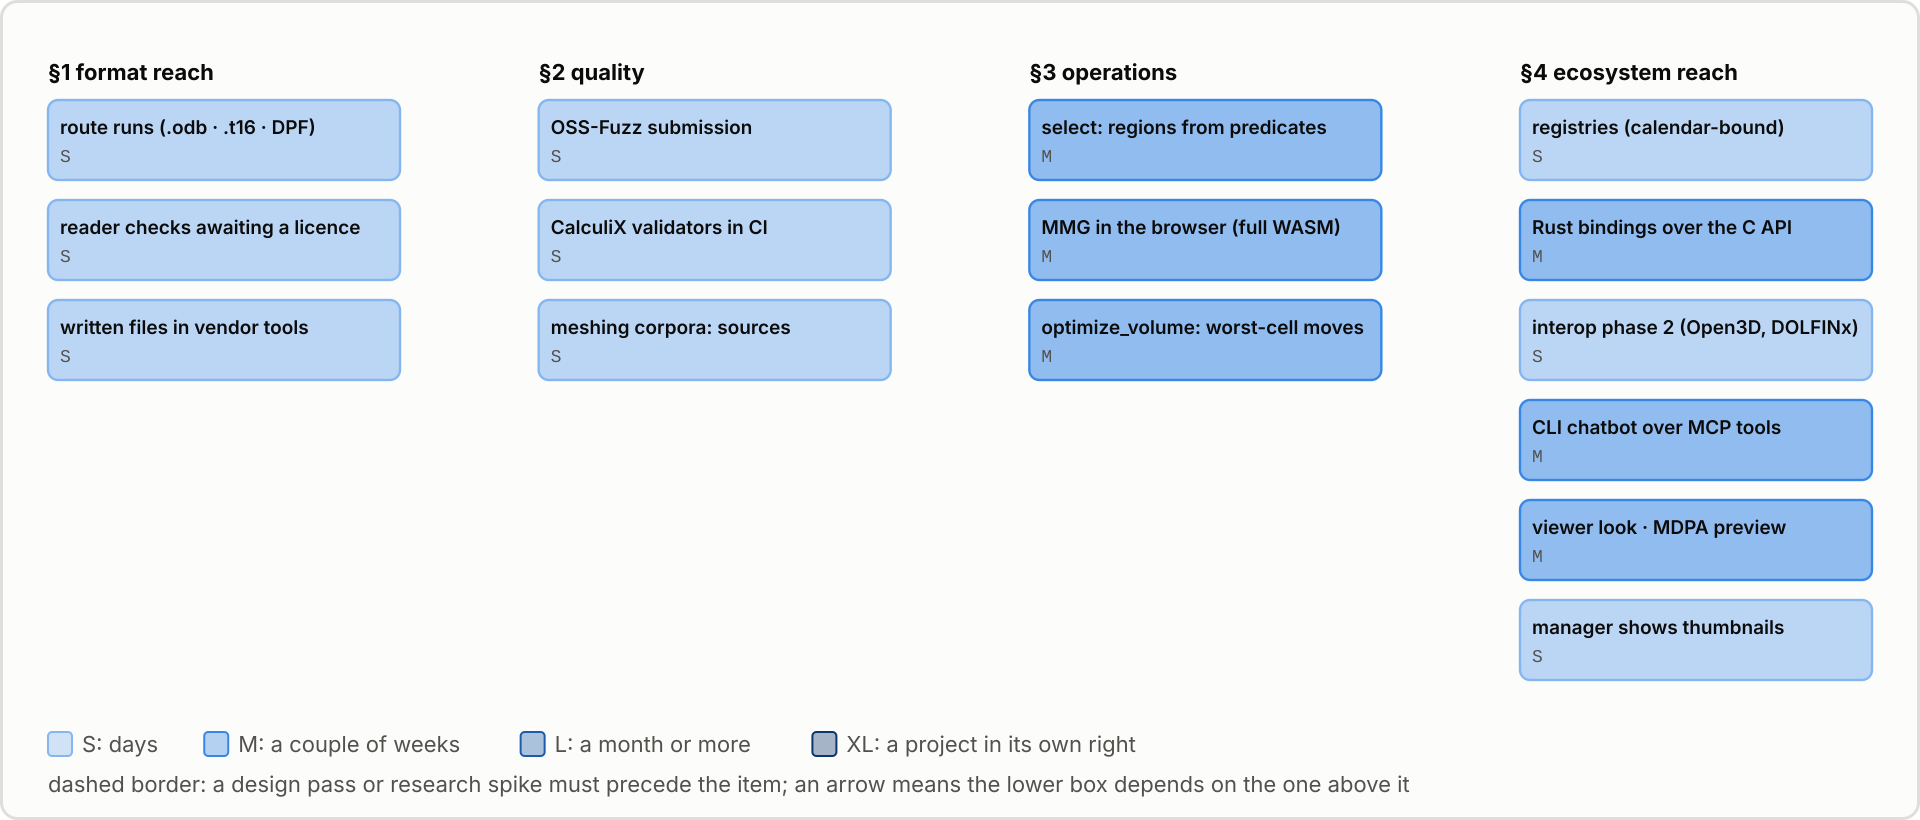
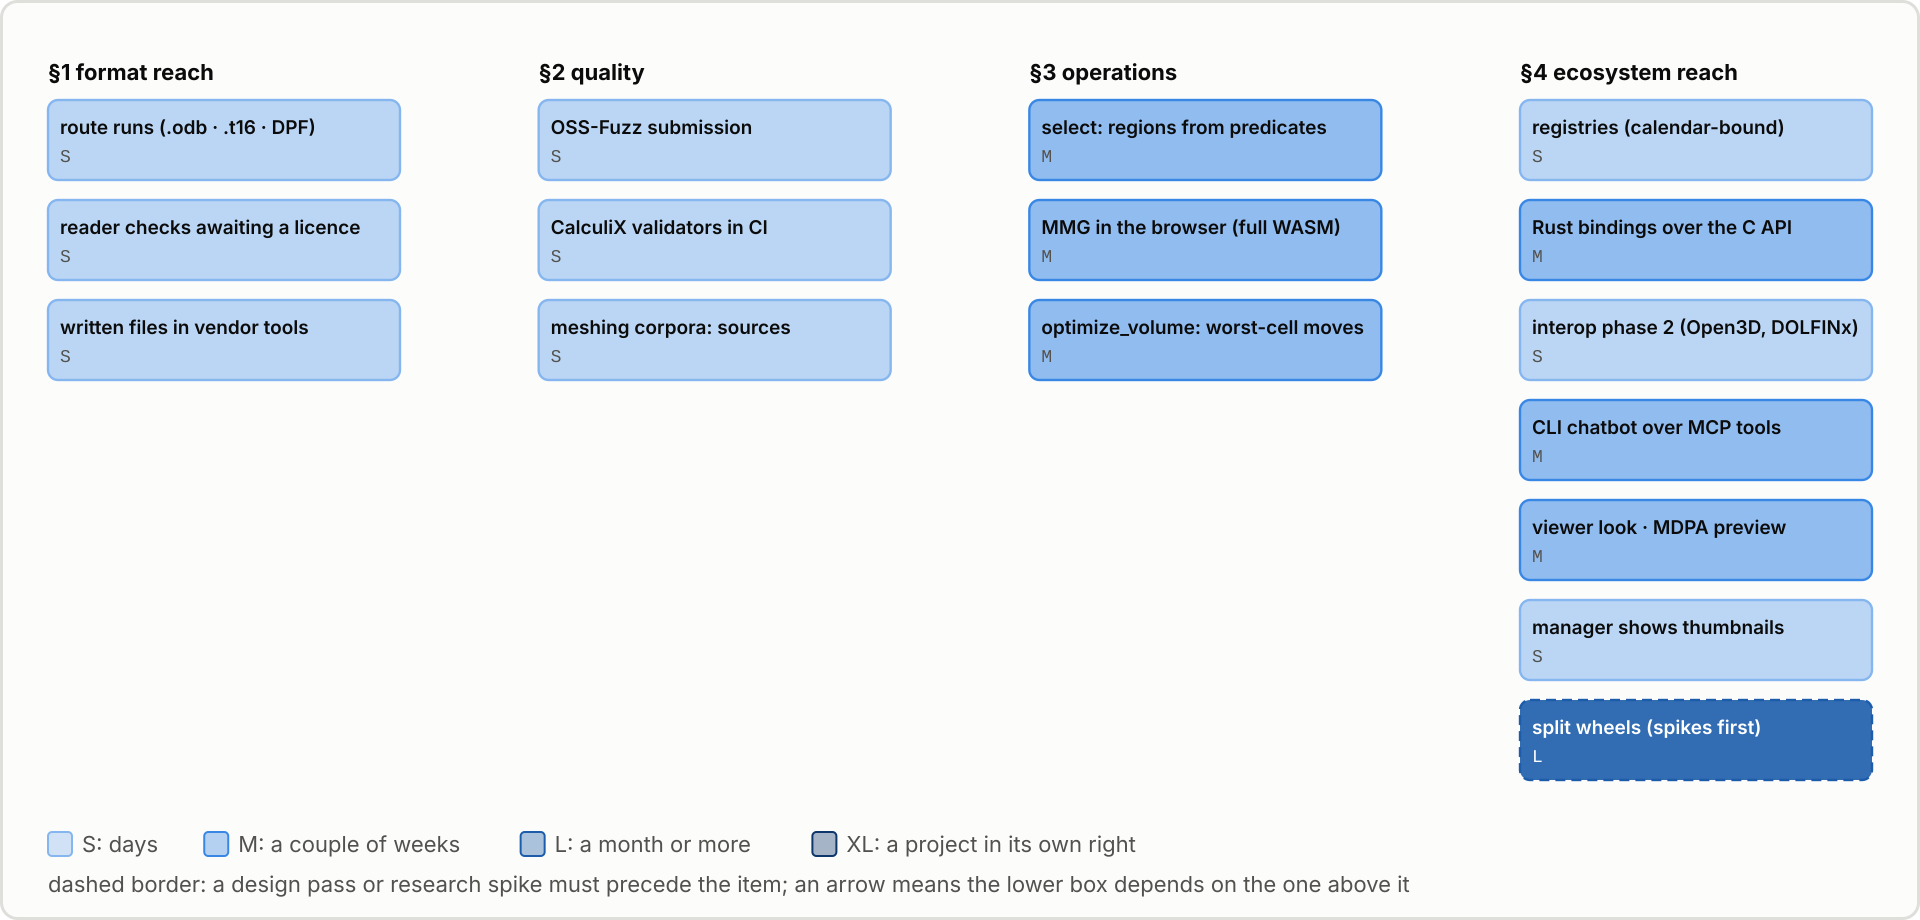
Plan the split Python packages: an MIT base wheel and add-on wheels (roadmap 4.7)
doc/python_packages_plan.md designs a Kratos-style distribution: the base
wheel ships the core as a shared library (the existing install-cpp
variant), and meshioplusplus-occt, -netgen and -mmg ship small extensions
linked against it, pinned to its exact version, each bundling its LGPL
library as a shared object; [all] installs everything. It needs a runtime
provider registry in the core first, and records the phases, the spikes
before code, the risks and what stays the same. Roadmap 4.7 and its map
point at it.

Claude-Session: https://claude.ai/code/session_01DnyVZDzhy71iTtjJbzZgnU

diff --git a/doc/diagrams/figures/flows.py b/doc/diagrams/figures/flows.py
@@ -1048,6 +1048,7 @@ def roadmap_map():
                 ("CLI chatbot over MCP tools", "M"),
                 ("viewer look · MDPA preview", "M"),
                 ("manager shows thumbnails", "S"),
+                ("split wheels (spikes first)", "L"),
             ],
             [],
         ),

diff --git a/doc/python_packages_plan.md b/doc/python_packages_plan.md
@@ -1,0 +1,141 @@
+# Split Python packages: plan
+
+The design pass for roadmap 4.7: one MIT base wheel, `meshioplusplus`, and add-on wheels that carry the copyleft libraries, `meshioplusplus-occt`, `meshioplusplus-netgen` and `meshioplusplus-mmg`, each a small extension linked against the base wheel's shared core, in the way KratosMultiphysics ships its applications beside `KratosMultiphysics` with an everything extra on top. Nothing here is built yet; this page records the target, what has to change and the order to change it in.
+
+## The problem
+
+The PyPI wheel is one extension, `meshioplusplus._core`, with OpenCASCADE 7.6.3 linked into it statically (`wheels.yml`, `-DMESHIOPLUSPLUS_REQUIRE_OCCT=ON`). Every wheel is therefore `MIT AND (LGPL-2.1-only WITH OCCT-exception-1.0)`, including for a user who never reads a STEP file, and every redistributor inherits the LGPL's relinking obligation, which the project meets only by documenting a rebuild from source ([third-party notices](https://github.com/loumalouomega/meshioplusplus/blob/main/THIRD_PARTY_NOTICES.md)). Netgen and MMG are never in a wheel at all, so `tetrahedralize` keeps no surface and `adapt`, `discretize_levelset`, `mesh_domain` and `move` raise for every pip user. Meanwhile libraries with no licence conflict (HDF5, netCDF, CGNS, zstd, lz4, bzip2, KaHIP) are left out too, and the formats they serve run on Python fallbacks.
+
+## The target
+
+| Wheel | Carries | Licence | Depends on |
+| --- | --- | --- | --- |
+| `meshioplusplus` | `_core`, the shared core `libmeshioplusplus_core`, its headers and CMake package; zlib, pugixml, nlohmann/json, gidpost, then HDF5, netCDF, CGNS, zstd, lz4, bzip2, KaHIP and Eigen (phase 5) | MIT (MIT AND MPL-2.0 once Eigen is in) | numpy, rich |
+| `meshioplusplus-occt` | `meshioplusplus_occt._occt`: STEP and IGES reading, `fit_cad`'s OpenCASCADE backend, OpenCASCADE as shared libraries | MIT AND (LGPL-2.1-only WITH OCCT-exception-1.0) | `meshioplusplus==X.Y.Z` |
+| `meshioplusplus-netgen` | `meshioplusplus_netgen._netgen`: `tetrahedralize`'s Netgen backend, nglib and ngcore as shared libraries | MIT AND LGPL-2.1-only | `meshioplusplus==X.Y.Z` |
+| `meshioplusplus-mmg` | `meshioplusplus_mmg._mmg`: `adapt`, `discretize_levelset`, `mesh_domain`, `move` (without ELAS), libmmg as a shared library | MIT AND LGPL-3.0-or-later | `meshioplusplus==X.Y.Z` |
+
+The base package's extras then select add-ons: `meshioplusplus[occt]`, `[netgen]`, `[mmg]`, and `[all]` installing all three beside today's h5py, netCDF4 and polyscope. Because each add-on bundles its LGPL library as a shared object next to its own extension, a recipient can swap that library without rebuilding anything, which is the LGPL's preferred form of compliance, and a user who installs only the base wheel installs no copyleft code at all.
+
+Every wheel ships the same version, and an add-on pins the base exactly (`meshioplusplus==X.Y.Z`), so the C++ interface between them only has to be stable *within* one release. That is what Kratos relies on, and it is why the project's ABI policy ([C++ ABI](./abi.md), 36 bumps since v9.0.0) does not need to become stricter for this.
+
+## How the pieces fit
+
+### The provider registry (core)
+
+The core stops testing `MESHIOPLUSPLUS_HAS_OCCT`, `HAS_NETGEN` and `HAS_MMG` and asks a registry instead. A new installed header, `meshioplusplus/providers.hpp`, holds one typed slot per backend:
+
+```cpp
+struct CadKernelProvider {
+    std::string mName, mVersion;                       // "occt", OCC_VERSION_COMPLETE
+    std::function<Mesh(const std::string&, const CadReadOptions&)> mReadStep, mReadIges;
+    std::function<FitCadResult(const Mesh&, const std::string&, const FitCadOptions&)> mFitCad;
+};
+struct TetMesherProvider { std::string mName, mVersion; std::function<TetrahedralizeResult(...)> mMesh; };
+struct RemesherProvider  { std::string mName, mVersion; bool mElas; int mIndexBits;
+                           std::function<...> mAdapt, mDiscretizeLevelset, mMeshDomain, mMove; };
+
+MESHIOPLUSPLUS_API void register_cad_kernel(CadKernelProvider);
+MESHIOPLUSPLUS_API const CadKernelProvider* cad_kernel() noexcept;   // nullptr: none
+// ... the same pair for the tetrahedral mesher and the remesher
+```
+
+Rules for the registry:
+
+- **The core's control flow keeps its shape.** `cad_read_has_occt()`, `fit_cad_has_occt()`, `tetrahedralize_has_netgen()`, `mmg_available()` and `mmg_has_elas()` keep their signatures and read the registry. `read_step` dispatches to `cad_kernel()->mReadStep` or throws the `Unsupported` it throws today (naming the add-on instead of a CMake flag). `fit_cad` and `tetrahedralize` fall back to their native backends exactly as now.
+- **One registration path for every build.** The monolithic builds (source builds, the native CLI, Conan, vcpkg, Spack, both WebAssembly artifacts) compile the providers into the core and register them through an explicit `register_builtin_providers()`. The core calls it once, lazily, from each capability query: no static initializers, and so no initialization-order fragility. A split build compiles none of them in, and the add-on registers its own when it is imported.
+- **Formats register at runtime too.** `registry.cpp`'s tables become mutable singletons behind a lock, with `registry_register_reader(name, ReadFn, ReadExFn, MetadataFn)` and the writer and extension counterparts. The existing `static const` initializer lists become the first registrations, so the iteration order, and every test that pins it, stays the same. `step` and `iges` stay registered as stubs that throw `Unsupported`, as they do now, and a provider replaces them.
+- **The pipeline gains no hook.** `FitCad`, `Tetrahedralize`, `Adapt` and the other steps already call the C++ functions, which reach the provider, so `pipe_op_table()` and the dispatch chain stay as they are.
+- **What moves out of the core.** `detail/occt_brep.*`, the OpenCASCADE branch of `formats/cad_read.cpp`, the OpenCASCADE backend of `operations/fit_cad.cpp` (`fc_occt_fit_cad`, about 4,400 lines), the Netgen branch of `operations/tetrahedralize.cpp` and the MMG implementation in `operations/mmg.cpp` move to `src/cpp/providers/{occt,netgen,mmg}/`. The core keeps the option structs, the native backends and the dispatch.
+
+### The shared core (base wheel)
+
+`_core` links a shared `libmeshioplusplus_core` instead of embedding `meshioplusplus_core_obj`. The library already exists: `MESHIOPLUSPLUS_INSTALL_CPP` builds `meshioplusplus_core_<backend>` with hidden visibility, `MESHIOPLUSPLUS_API` exports and `SOVERSION ${MESHIOPLUSPLUS_ABI_VERSION}`. The wheel build turns on the MESHIO variant of it and installs, under `meshioplusplus/`:
+
+- `lib/` (`.so.36`, `.dylib`, or `.dll` with its import library);
+- `include/meshioplusplus/`;
+- `lib/cmake/meshioplusplus/`, so an add-on finds the core by `find_package(meshioplusplus CONFIG)` against `meshioplusplus.get_cmake_dir()`, as pybind11's `get_cmake_dir()` works.
+
+Two consequences need care:
+
+- **One C++ runtime.** Two shared objects now pass `std::string`, `std::function` and exceptions between them, so neither may carry a private copy of libstdc++: `MESHIOPLUSPLUS_STATIC_RUNTIME`'s `-static-libstdc++` and `--exclude-libs,ALL` go away on Linux in favour of the manylinux system libstdc++. On Windows the CRT is the dynamic `/MD`, which it already is for `_core`. The exception classes the add-ons throw or catch (`ReadError`, `WriteError`, `Unsupported`) are exported with `MESHIOPLUSPLUS_API` so that their type identity crosses the boundary.
+- **The core-internal surface.** The provider sources call `detail::` helpers that no installed header declares today (fit CAD's patch network, the B-spline fitters, `face_mesh`). They are exported under a `MESHIOPLUSPLUS_INTERNAL_API` macro and documented as valid only within one release, which the exact version pin guarantees. Compiling private copies of them into each add-on instead would break the one-definition rule across shared objects.
+
+### The add-on wheels
+
+Each add-on is its own project under `packages/python/meshioplusplus-<name>/`, with a `pyproject.toml` whose scikit-build-core build points `cmake.source-dir` at the repository root with `-DMESHIOPLUSPLUS_ADDON=<name>`. Its build requirements are `meshioplusplus==X.Y.Z`, pybind11 and the library itself (OpenCASCADE from `build/build-occt.sh --shared`, Netgen and MMG from new `build/build-netgen.sh` and the existing `build/build-mmg.sh`). The extension module is about a hundred lines:
+
+```cpp
+PYBIND11_MODULE(_occt, m) {
+    meshioplusplus::providers::register_occt();     // the CAD kernel and the step/iges readers
+    m.attr("__version__") = MESHIOPLUSPLUS_VERSION_STRING;
+    m.attr("__occt_version__") = OCC_VERSION_COMPLETE;
+}
+```
+
+Meshes never cross a Python boundary: the base `_core` converts the arguments, calls `fit_cad`, and the core reaches the provider in-process. The add-on's Python package is just its `__init__.py`, which imports `_occt`, and an entry point:
+
+```toml
+[project.entry-points."meshioplusplus.plugins"]
+occt = "meshioplusplus_occt"
+```
+
+Linking against the core, and repairing each platform's wheel:
+
+| Platform | The add-on's extension finds the core through | The repair tool |
+| --- | --- | --- |
+| Linux | an RPATH of `$ORIGIN/../meshioplusplus/lib` | `auditwheel repair --exclude libmeshioplusplus_core.so.36` bundles OpenCASCADE but not the core |
+| macOS | an RPATH of `@loader_path/../meshioplusplus/lib` | `delocate-wheel --exclude libmeshioplusplus_core` |
+| Windows | the base package's `__init__.py` calling `os.add_dll_directory()` on its `lib` directory before importing `_core` | `delvewheel repair --exclude meshioplusplus_core.dll` |
+
+### Discovery (Python)
+
+A new `meshioplusplus/_plugins.py` loads the entry points of the group `meshioplusplus.plugins` once, lazily. It is called from the capability queries (`has_occt()`, a new public `has_netgen()`, `has_mmg()`) and from the paths that need a provider (`step._read_cad`, `_fit_cad`, `_tetrahedralize`, `_mmg`), and checks each add-on's `__version__` against the base, refusing a mismatch by name. `MESHIOPLUSPLUS_NO_PLUGINS=1` skips discovery, so a test run can prove the base wheel alone.
+
+The `_core.__has_occt__`, `__has_netgen__` and `__has_mmg__` attributes stay for compatibility. Read after discovery, they report the registry rather than a compile-time constant, through a module-level `__getattr__` on the pybind module's Python wrapper.
+
+## Phases
+
+Each phase lands on its own, with the monolithic builds green and unchanged in behaviour throughout.
+
+0. **Spikes (S).** Each spike answers one question by experiment before the code it would change is written:
+   - Exceptions and `std::function` crossing two shared objects built in the manylinux_2_34 image with gcc-toolset-13 (whose libstdc++ links part of itself statically into each object), and on macOS and Windows.
+   - Whether `netgen-mesher`'s PyPI wheels expose a linkable nglib, which would let `meshioplusplus-netgen` depend on them instead of bundling.
+   - A scikit-build-core project building against an installed base wheel's CMake package.
+1. **The provider registry (M).**
+   - `providers.hpp`, `register_builtin_providers()` and the runtime format registration.
+   - The provider sources moved under `src/cpp/providers/`, still compiled into the monolithic core.
+   - Exit: every existing test passes in every CI configuration (OpenCASCADE, Netgen and MMG jobs included), `fit_cad`'s goldens are unchanged, and a new C++ test registers a fake provider of each kind and sees it used.
+2. **The shared core in the base wheel (M).**
+   - `_core` linked against `libmeshioplusplus_core`, with headers, the CMake package and `get_cmake_dir()` in the wheel, built with OpenCASCADE OFF.
+   - The repair configuration for all three platforms.
+   - Exit: the base wheel's licence is `MIT`, `nm`/`dumpbin` finds no OpenCASCADE symbol in it, and the Python suite passes with the OpenCASCADE tests skipping by name.
+   - **Breaking:** pip users lose STEP/IGES reading and the OpenCASCADE `fit_cad` until they install the add-on. This phase and phase 3 therefore ship together in one major release (v18.0.0).
+3. **`meshioplusplus-occt` (L).** OpenCASCADE built shared by `build-occt.sh`, the add-on project, its entry point and discovery, and a `wheels.yml` job building it on the same runner as the base and testing the pair. Exit: `tests/wheel_occt_smoke.py` passes with base plus add-on installed, and the suite's OpenCASCADE tests run instead of skipping.
+4. **`meshioplusplus-netgen` and `meshioplusplus-mmg` (M each).** The same template. MMG ships without ELAS (ELAS makes a build GPL-3.0), so `move` raises naming it; Netgen is 6.2.2401, the version the native CI job and the full WebAssembly artifact use. Exit: the `tetrahedralize` and MMG suites run against the installed wheels.
+5. **The permissive libraries in the base wheel (M).** HDF5, netCDF and CGNS built static with hidden symbols (h5py brings its own HDF5 into the same process, so none of ours may be exported), zstd, lz4, bzip2, KaHIP and Eigen. The native HDF5-backed formats then run in the wheel instead of their Python fallbacks. Exit: the conformance matrix is regenerated from a wheel, and h5py and our core read the same file in one process.
+6. **Extras, docs and release (S).**
+   - The extras, and the version-bump table in `AGENTS.md` gaining the add-on `pyproject.toml` files.
+   - `LICENSE-BINARIES.md` and `THIRD_PARTY_NOTICES.md` per wheel; [installation](./installation.md) rewritten around the split, with a migration note.
+   - The PyPI trusted publishers for the three new projects.
+7. **Native consumers, optional (M).** The release CLI binaries and the C API could load the same providers as shared plugins (`MESHIOPLUSPLUS_PLUGIN_PATH`, an exported `extern "C" meshioplusplus_register_plugin()`), so the CLI archives could split too. Until then they keep OpenCASCADE linked statically, and their licence is unchanged.
+
+Altogether **L to XL**: about a month for phases 0 to 3, which deliver the MIT base wheel and OpenCASCADE as an add-on, and as much again for the rest.
+
+## Risks
+
+- **Two copies of a C++ runtime.** If spike 0.1 shows the toolset's partly static libstdc++ cannot pass exceptions between the core and an add-on, the fallback is to build the add-ons in the same CI job as the base, from the same toolchain, and to require exactly matching wheel tags. Kratos does the same.
+- **h5py and our HDF5 in one process (phase 5).** This is safe only if no HDF5 symbol of ours is visible. The phase's exit test exists for this reason.
+- **Users who never pin.** `pip install -U meshioplusplus` without the add-on leaves an old `meshioplusplus-occt` behind. Discovery refuses the mismatch by name rather than crashing, and the add-on's exact pin makes pip upgrade it alongside whenever the add-on is installed through the extra.
+- **Windows DLL resolution.** `os.add_dll_directory` must run before any extension import. It goes in the first lines of `meshioplusplus/__init__.py`, and an import test runs on a clean Windows runner.
+
+## What stays the same
+
+- **Source and monolithic builds.** `build/configure.sh`, Conan, vcpkg and Spack build one core with whatever they find, as now.
+- **Both WebAssembly artifacts.** They link their providers statically; the lean/full split is already the browser's version of this design.
+- **The Python API.** No function is added or removed by the split. A capability that is missing raises the same `NotImplementedError` or `Unsupported` it raises in a source build without the library, now naming the add-on to install.
+
+## Decided here
+
+- **The everything option is the `[all]` extra.** It gains the three add-ons beside h5py, netCDF4 and polyscope, so `[all]` installs LGPL code; the base wheel alone never does. A separate `meshioplusplus-all` metapackage would add a release artifact without adding a choice.
+- **The add-on module names are `meshioplusplus_occt`, `meshioplusplus_netgen` and `meshioplusplus_mmg`.** They are separate top-level packages rather than `meshioplusplus.occt` namespace subpackages, because a namespace package cannot share the base's regular package directory.

diff --git a/doc/roadmap.md b/doc/roadmap.md
@@ -138,6 +138,8 @@ The sanitizer leg, the reader fuzzing, the format conformance matrix, the proper
 
 - **4.6 The dataset manager shows the stored thumbnail.** A manifest entry's `Thumbnail` is a PNG path the Python API, the CLI and the MCP tools write and read, and the [browser dataset manager](./datasets.md#curating-in-the-browser) accepts, keeps and saves the key, but it still draws its own session-only preview of the entry it has open. Showing the stored picture on the entry's card, without opening the case, needs the manager to fetch the file (through the `--http` companion, or from the picked directory). **S**
 
+- **4.7 Split Python packages.** One MIT base wheel with the core as a shared library, and add-on wheels for the copyleft backends (`meshioplusplus-occt`, `-netgen`, `-mmg`) linked against it and pinned to its exact version, Kratos-style, with `[all]` installing everything; the base wheel then also gains HDF5, netCDF, CGNS, the codecs and KaHIP. Needs a runtime provider registry in the core first. The phases, the risks and the spikes that come before code are in the [plan](./python_packages_plan.md). **L–XL**
+
 ---
 
 ## Non-goals and decisions taken
@@ -211,3 +213,4 @@ Open work only; what shipped is in `CHANGELOG.md`.
 2. **The OSS-Fuzz submission ([§2](#_2-quality-of-implementation))** — calendar-bound, so it runs alongside everything else.
 3. **The MMG backend in the browser ([§3](#_3-operations))** — the native backend landed ([MMG backend](./mmg.md), v17.23.0: Medit `.sol`, then `adapt`, `discretize_levelset`, `mesh_domain` and, with ELAS, `move`); what is left is their port through the full WebAssembly build v17.2.0 shipped (3.2.8).
 4. **Registration ([§4](#_4-ecosystem-reach))** — calendar-bound, so start the submissions early and let them run alongside everything else; the dataset manager's thumbnails (4.6) needs no decision first and can run beside them.
+5. **Split Python packages ([4.7](#_4-ecosystem-reach))** — a major release (v18.0.0) that lands the provider registry, the shared core and the OpenCASCADE add-on together; the spikes of its [plan](./python_packages_plan.md) come first, then Netgen, MMG and the permissive libraries in the base wheel.
